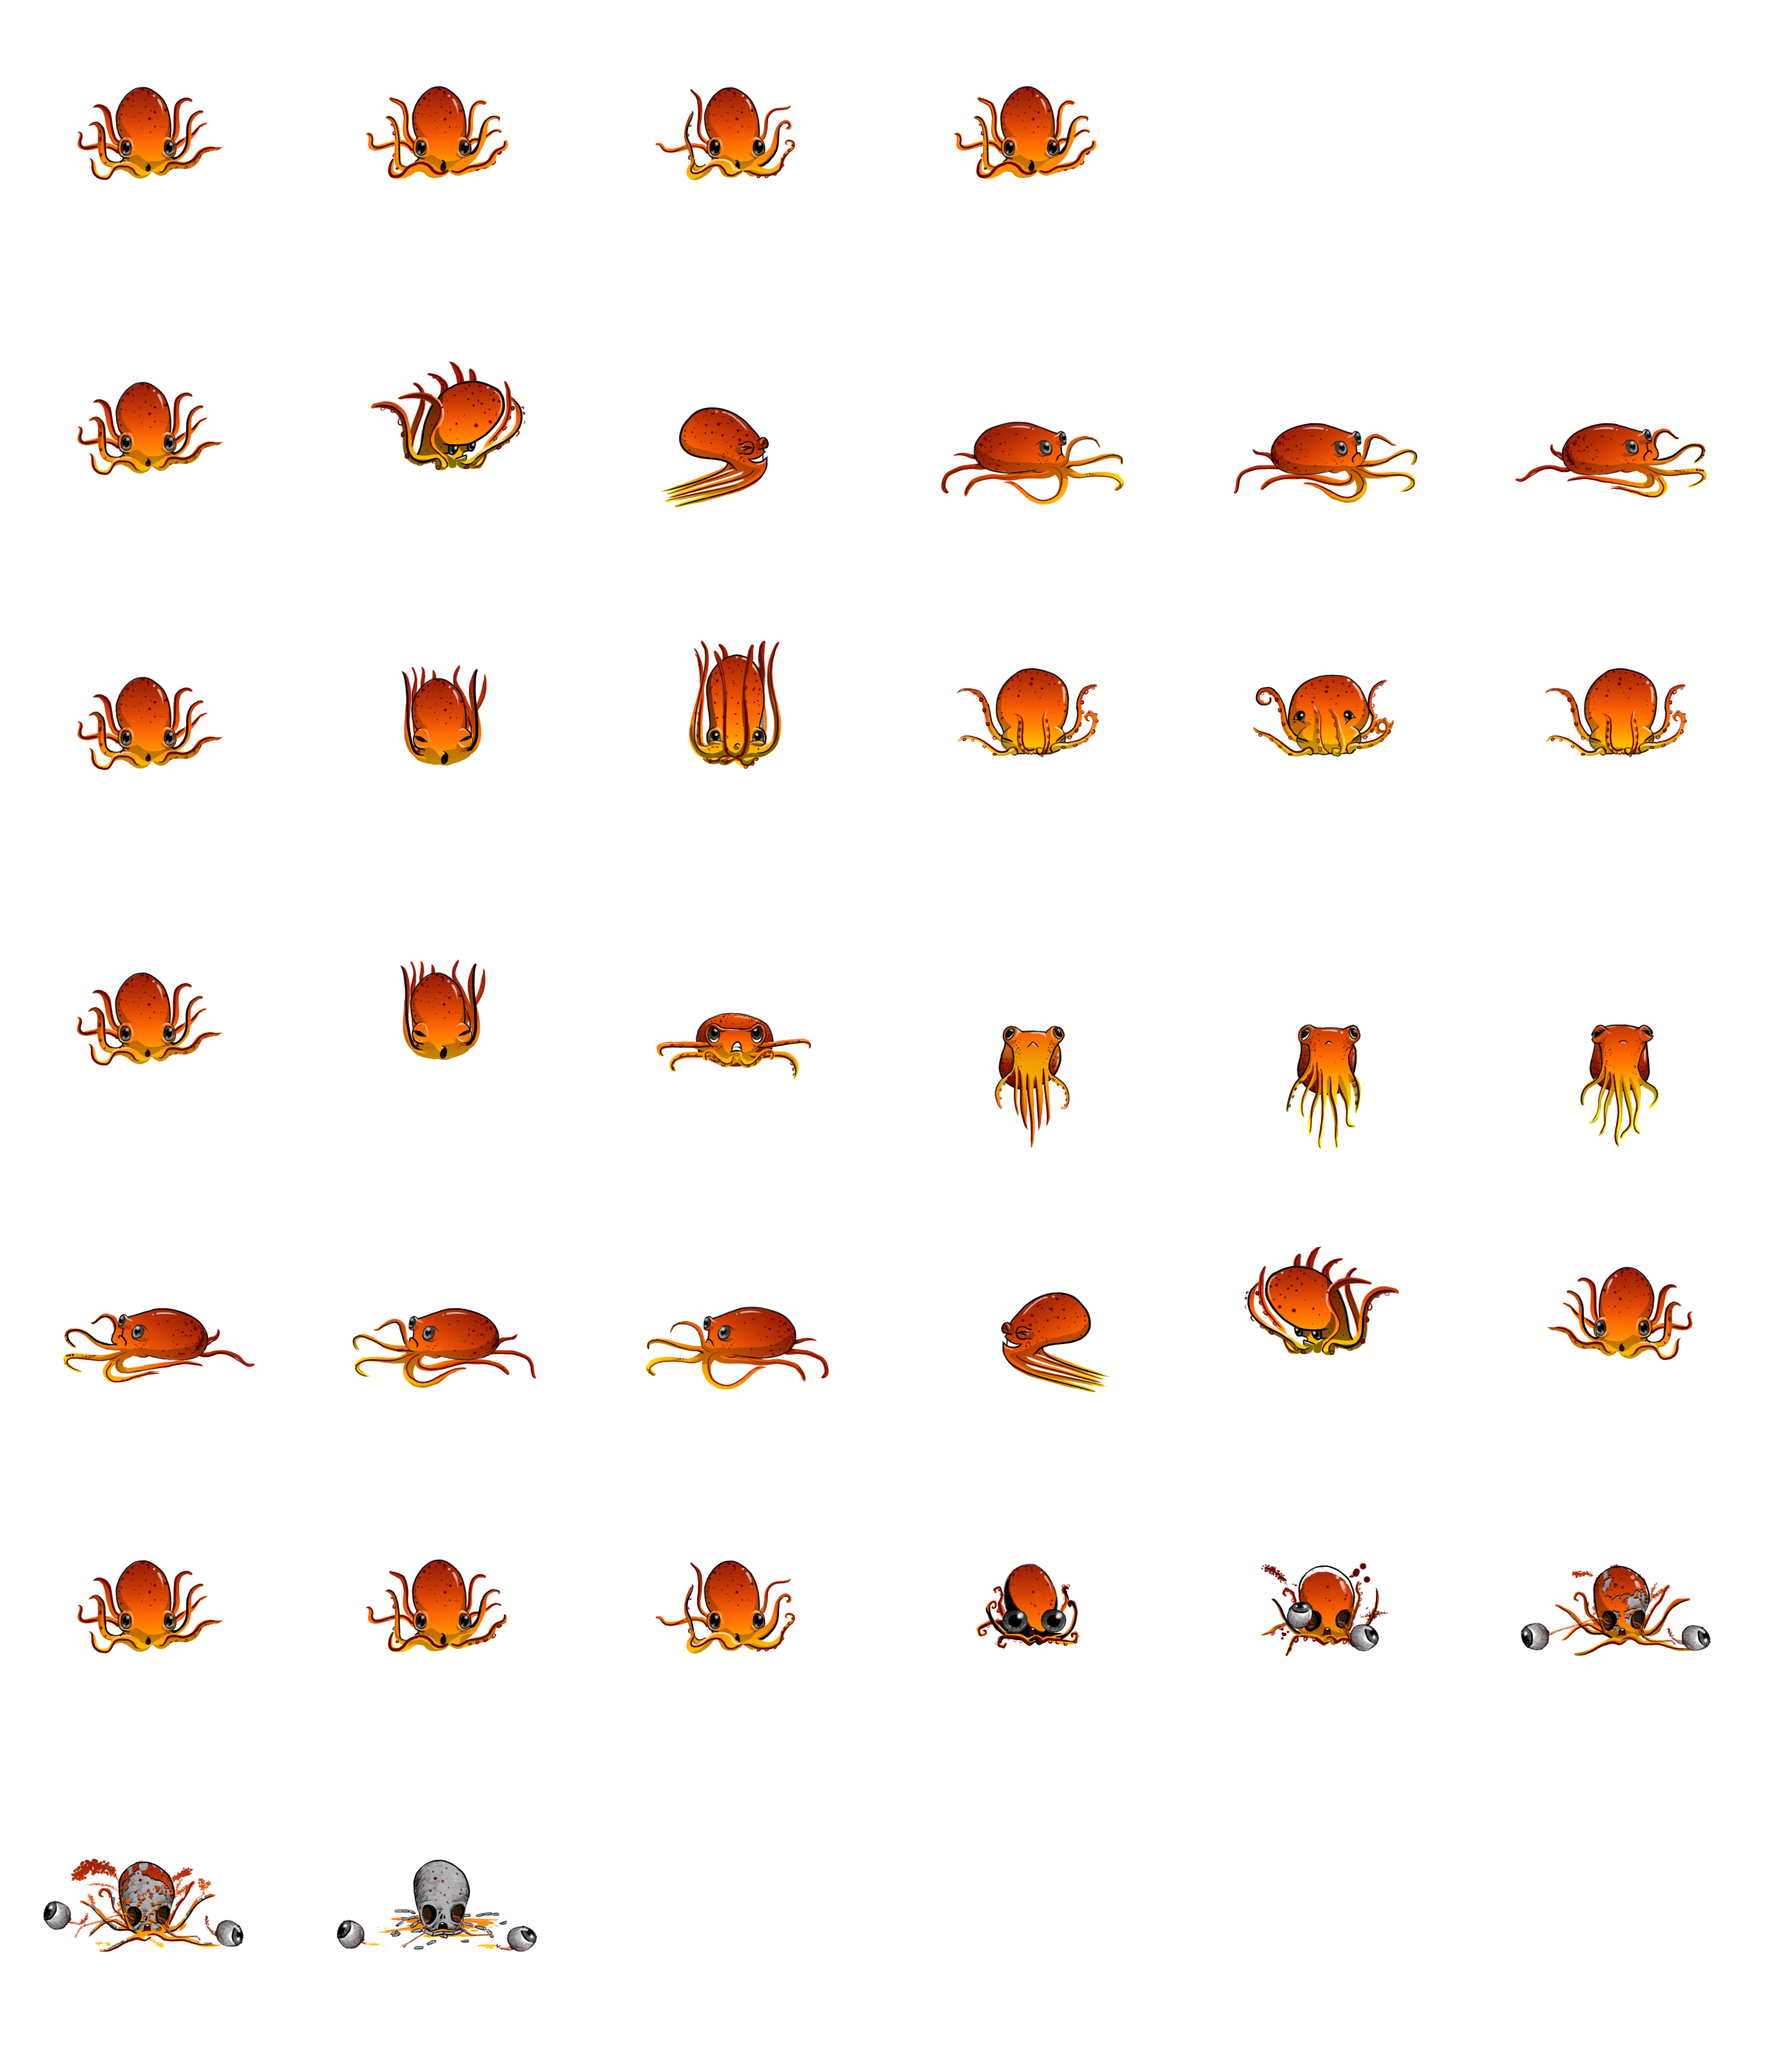
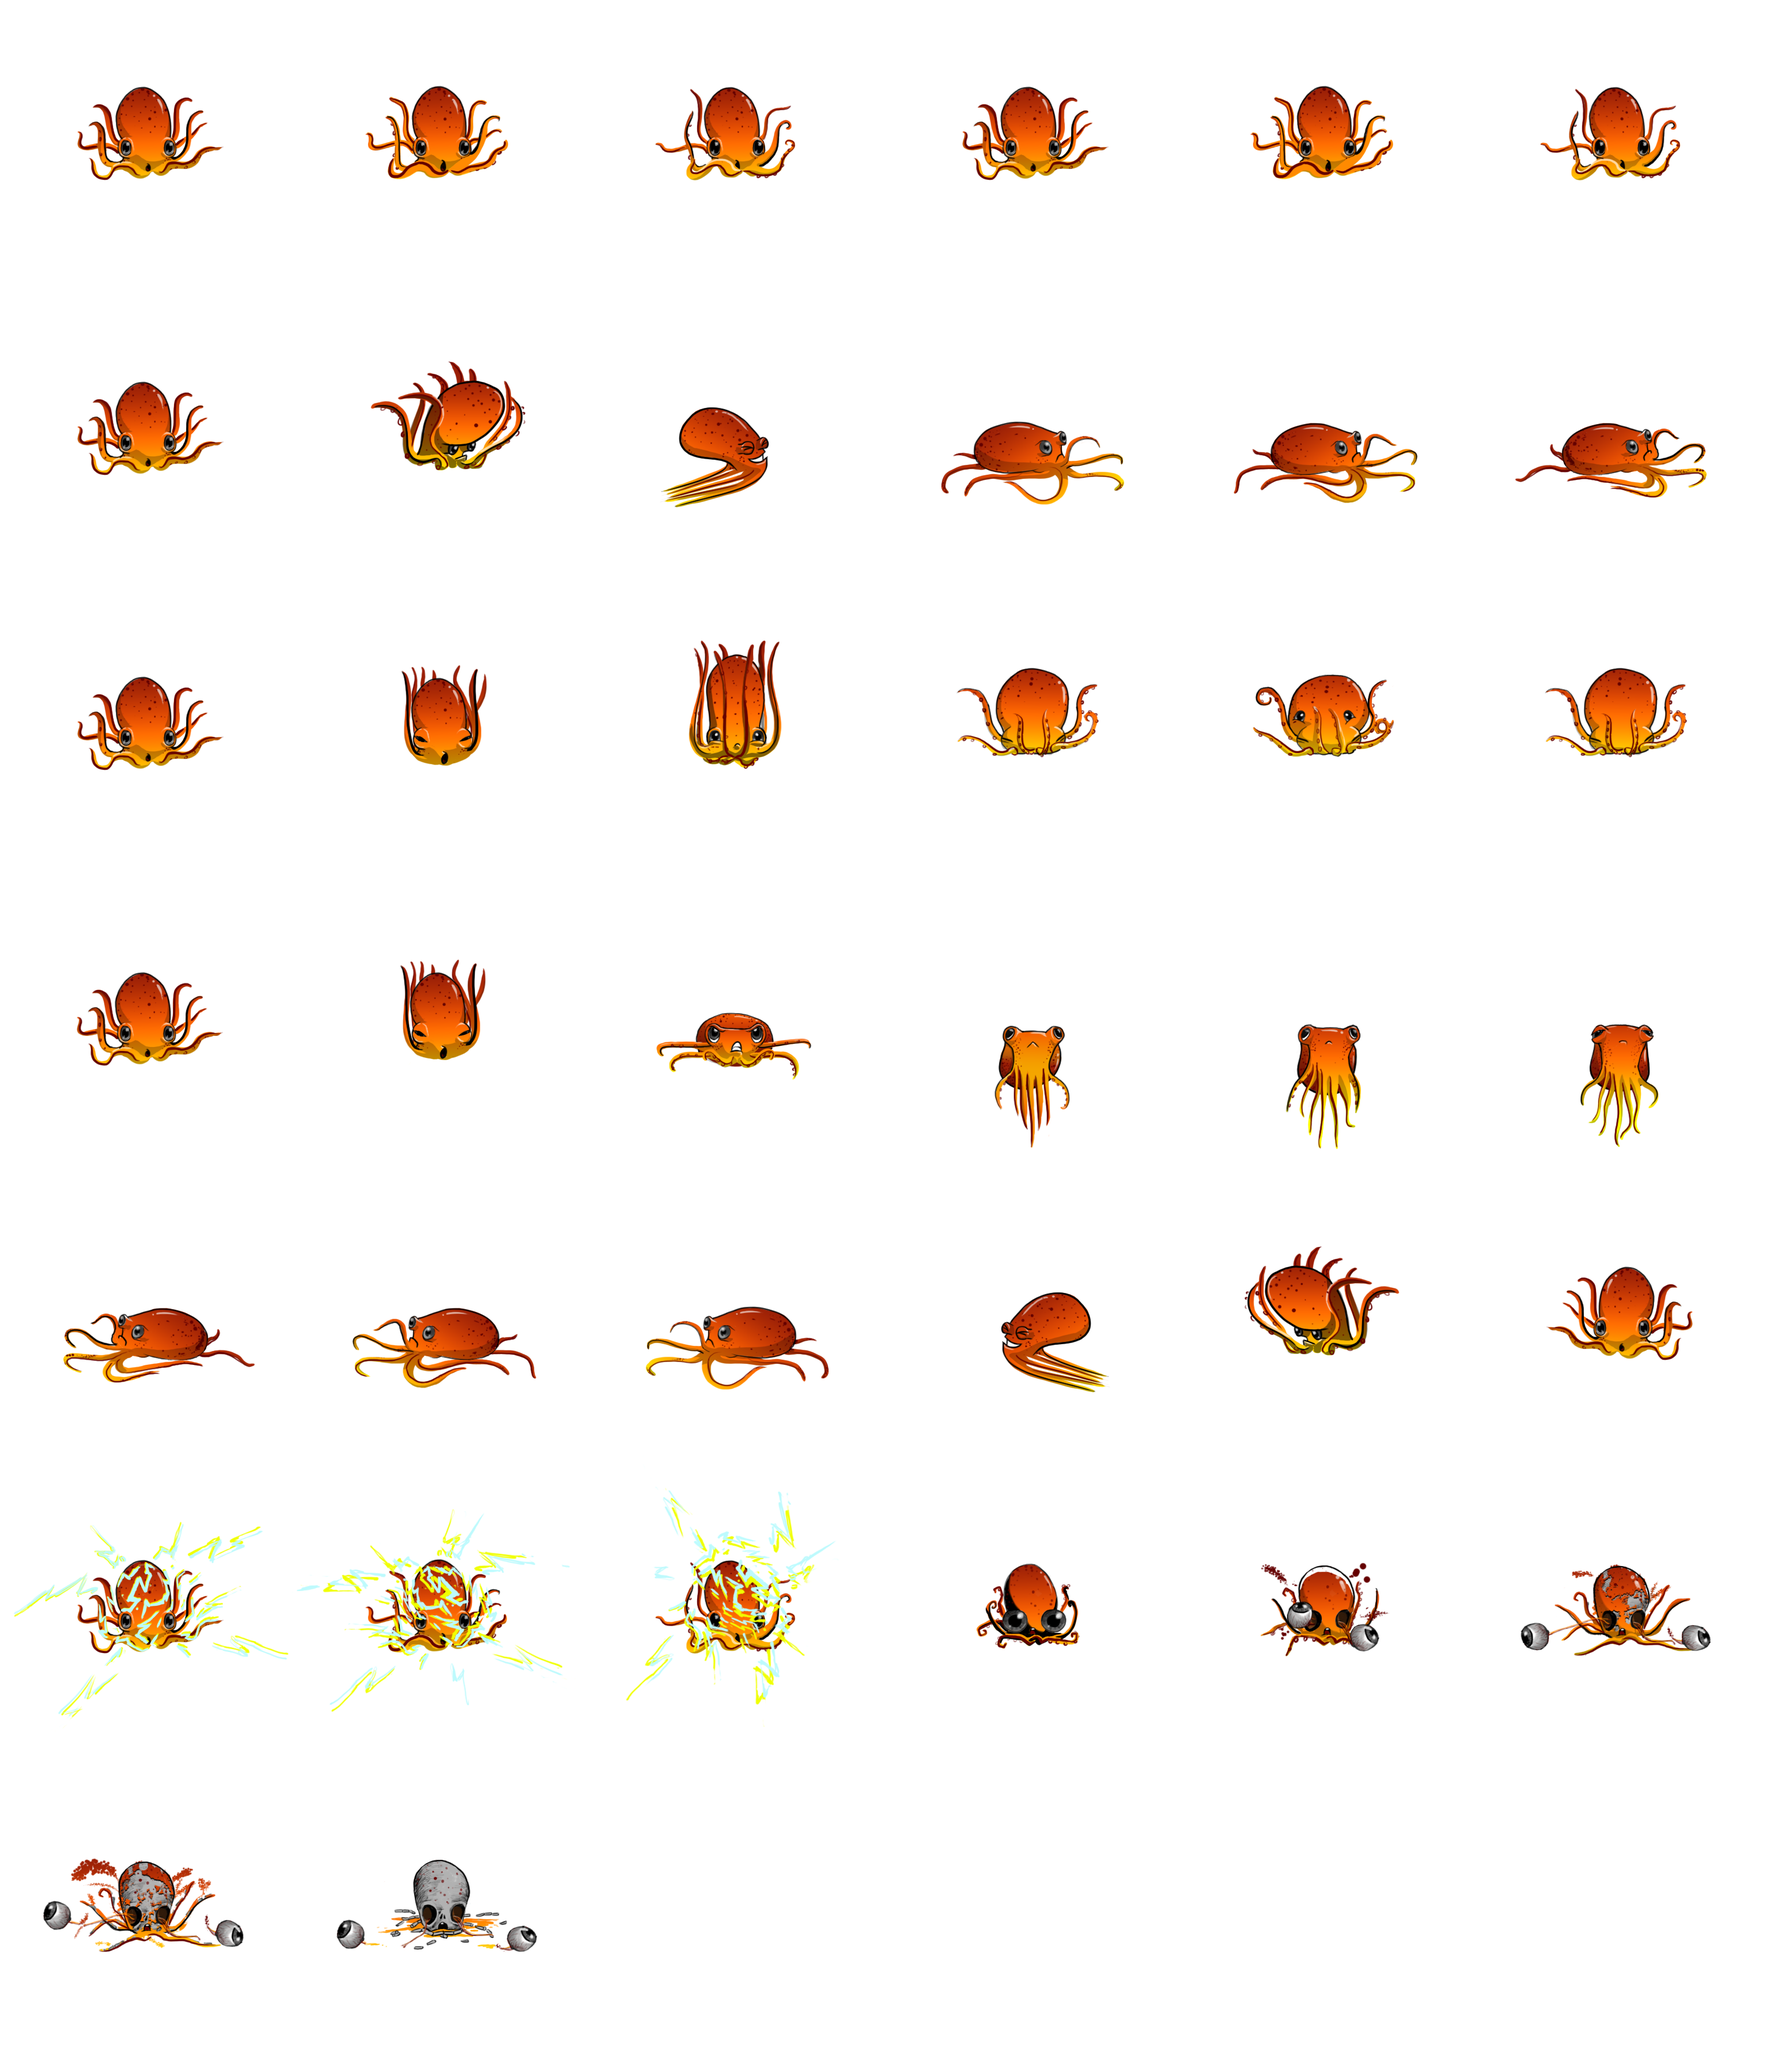
new animations

diff --git a/Octopussy/level.ts b/Octopussy/level.ts
@@ -295,6 +295,7 @@ module Octopussy {
             if(this.player) {
 
                 this.player.animations.play('waiting');
+                //this.player.animations.play('player_death');
                 this.updateArrows();
             }
         }
@@ -397,8 +398,8 @@ module Octopussy {
             player.animations.add('waiting', [0,0,0,0,1,1,1,1,2,2,2,2,1,1,1,1,], 15, true);
             player.animations.add('right', [8,8,8,8,8,9,10,11,11,10,9,9], 15, true);
             player.animations.add('left', [27,27,27,27,27,26,25,24,24,25,26,26], 15, true);
-            player.animations.add('player_death', [30,30,31,31,32,32,33,33,33,33,34,34,35,35,36,36,37,37], 10, true);
-            player.animations.add('clone_rescued', [3,3,3,3,4,4,4,4,5,5,5,5,4,4,4,4,], 15, true);
+            player.animations.add('player_death', [30,31,30,31,32,31,32,33,33,33,33,34,34,35,35,36,36,37,37], 10, false);
+            player.animations.add('clone_rescued', [3,3,3,3,4,4,4,4,5,5,5,5,4,4,4,4,], 15, false);
             return player;
         }
 
@@ -420,7 +421,7 @@ module Octopussy {
                 this.keyMap[Direction.Up].isUp &&
                 this.keyMap[Direction.Right].isUp &&
                 this.keyMap[Direction.Left].isUp) {
-                
+
                 this.setInputActive();
                 this.sound_swim.loop = false;
             }
